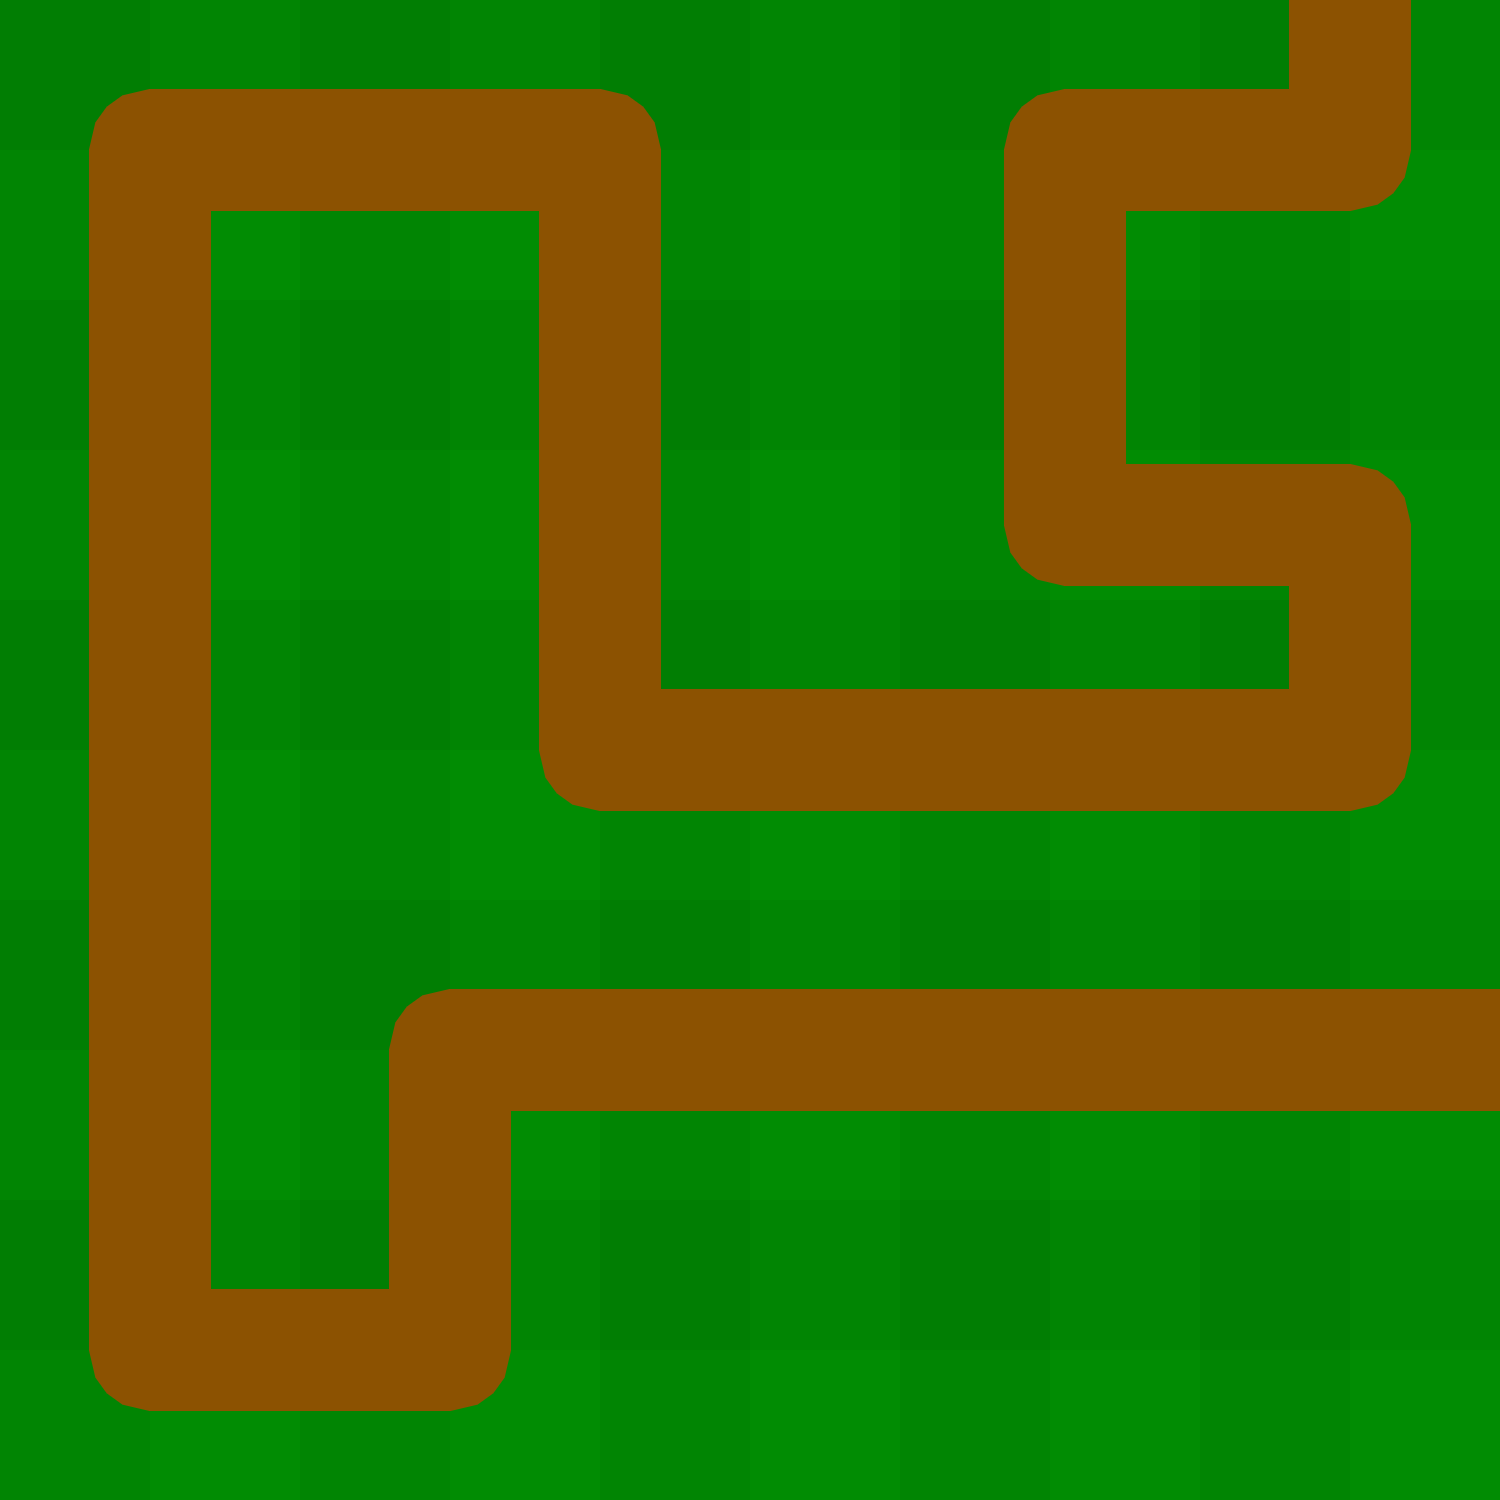
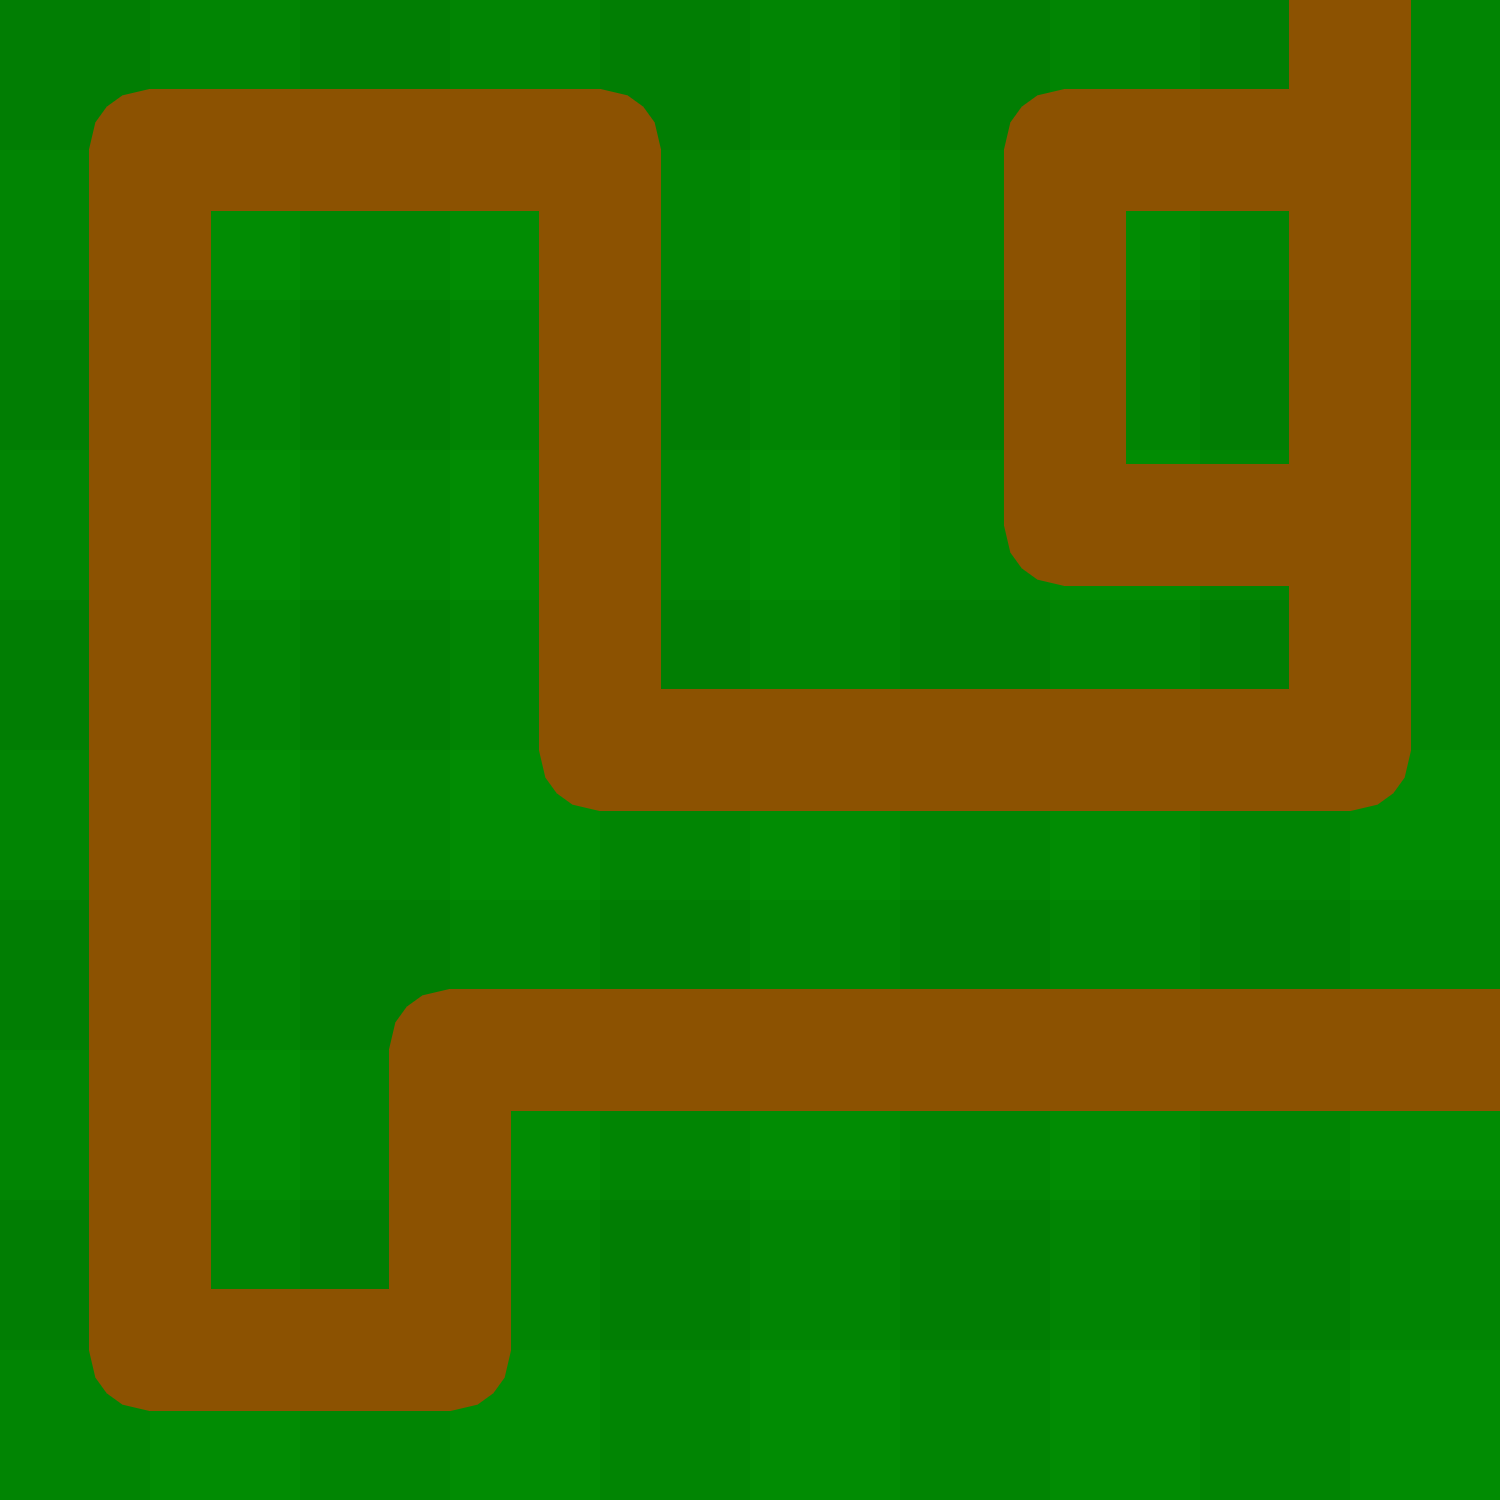
Optimize wave five

Changed region(s): [[0.8587, 0.1227, 0.9507, 0.3373]]

diff --git a/app/utils/create-wave-5.js b/app/utils/create-wave-5.js
@@ -13,10 +13,11 @@ function addBoardToWave(wave) {
 
   const pathObjects = [
     PathCoords.create({ x: 90, y: -5 }),
-    PathCoords.create({ x: 90, y: 10 }),
-    PathCoords.create({ x: 71, y: 10 }),
-    PathCoords.create({ x: 71, y: 35 }),
     PathCoords.create({ x: 90, y: 35 }),
+    PathCoords.create({ x: 71, y: 35 }),
+    PathCoords.create({ x: 71, y: 10 }),
+    PathCoords.create({ x: 90, y: 10 }),
+    PathCoords.create({ x: 90, y: 10 }),
     PathCoords.create({ x: 90, y: 50 }),
     PathCoords.create({ x: 40, y: 50 }),
     PathCoords.create({ x: 40, y: 10 }),
@@ -37,16 +38,16 @@ function addBoardToWave(wave) {
 function addMobsToWave(wave) {
   const mobs = [];
 
-  const mobQuantity = 5;
+  const mobQuantity = 10;
   for (var i = 0; i < mobQuantity; i++) {
     const newMob = Mob.create({
       id: generateIdForRecord(),
-      frequency: 2000,
-      health: 350,
-      maxHealth: 350,
+      frequency: 900,
+      health: 300,
+      maxHealth: 300,
       points: 20,
       quantity: mobQuantity,
-      speed: 8, // seconds to cross one axis of the board
+      speed: 10, // seconds to cross one axis of the board
       type: 'standard'
     });
 
